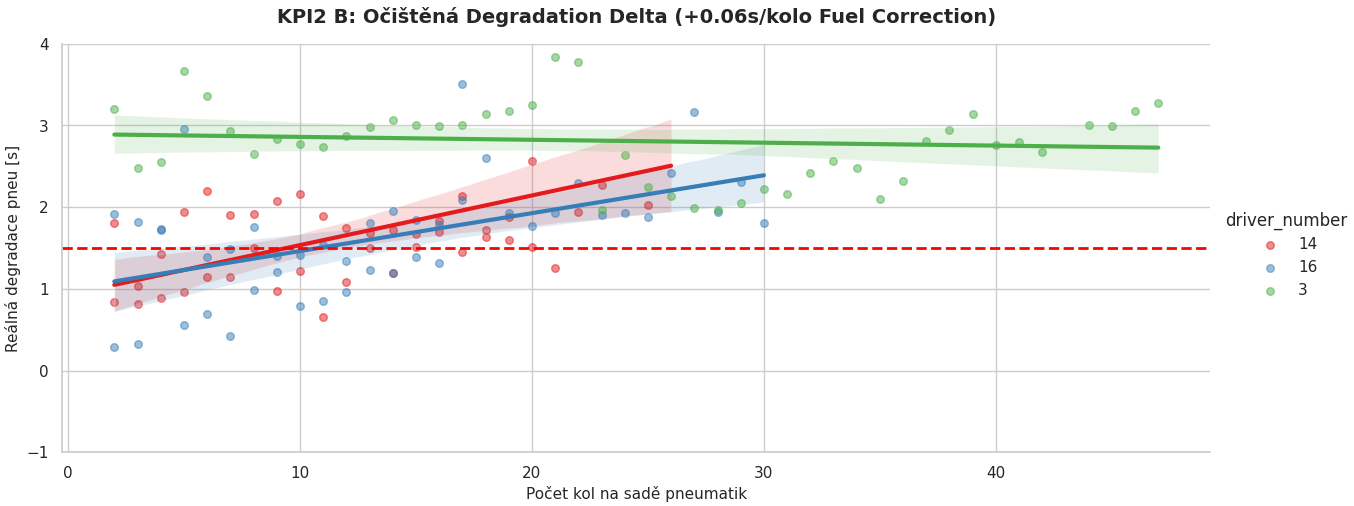
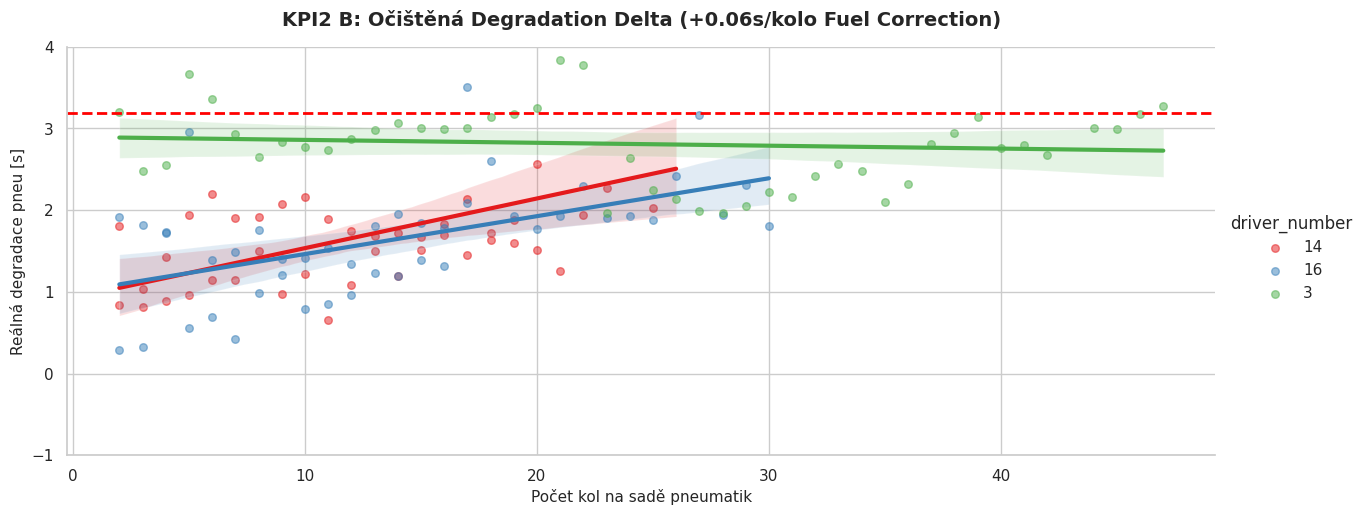
nove obrazky

diff --git a/pages/bigdata/index.html b/pages/bigdata/index.html
@@ -900,6 +900,8 @@
                 <ul><li>Korelační matice vlevo odhaluje silné statistické vazby mezi proměnnými, zatímco regresní graf vpravo vizualizuje přímou závislost vyšší spotřeby paliva na rostoucí teplotě trati.</li></ul>
                 <img src="obrazky/casovaAnalyza.png" class="gallery-img" onclick="openModal(this)">
                 <ul><li>Horní část sleduje vývoj času na kolo s jasně patrným zrychlením po výměně pneumatik (pit stopu). Spodní část grafu pak koreluje kolísající teplotu trati s plynule rostoucím kumulativním opotřebením motoru v průběhu celého závodu.</li></ul>
+                <img src="obrazky/pitstrop.png" class="gallery-img" onclick="openModal(this)">
+                <ul><li>In-Laps analýza ukazuje mediánovou ztrátu tempa těsně před reálným pit stopem 3.19 s. </li></ul>
 
                 <h4>KPI</h4>
                 <img src="obrazky/KPI1.png" class="gallery-img" onclick="openModal(this)">
@@ -907,7 +909,7 @@
                 <img src="obrazky/KPI2A.png" class="gallery-img" onclick="openModal(this)">
                 <ul><li>Tento graf vizualizuje ztrátu tempa, kde je reálné opotřebení pneumatik maskováno úbytkem paliva, což vede k nelogickému zrychlování (klesající trend). Jde o důkaz limitace modelu před aplikací nezbytných fyzikálních korekcí.</li></ul>
                 <img src="obrazky/KPI2B.png" class="gallery-img" onclick="openModal(this)">
-                <ul><li></li></ul>
+                <ul><li>Po aplikaci korekce na úbytek paliva graf konečně zobrazuje reálný nárůst ztráty tempa v důsledku degradace pneumatik. Červená přerušovaná čára značí kritickou mez 3.19 s, která definuje strop „Pit Window“. Po jeho překročení dochází k výrazným ztrátám které nemusí být dohnatelné po zbytek závodu..</li></ul>
                 <img src="obrazky/KPI3.png" class="gallery-img" onclick="openModal(this)">
                 <ul><li>Horizontální sloupcový graf srovnává finanční efektivitu týmů měřenou počtem získaných bodů na jeden milion USD vývojových nákladů. Ukazuje, že Mercedes a McLaren dosáhly nejlepšího poměru „cena/výkon“, zatímco týmy bez bodového zisku vykazují nulovou návratnost investice do daného závodu.</li></ul>
 
